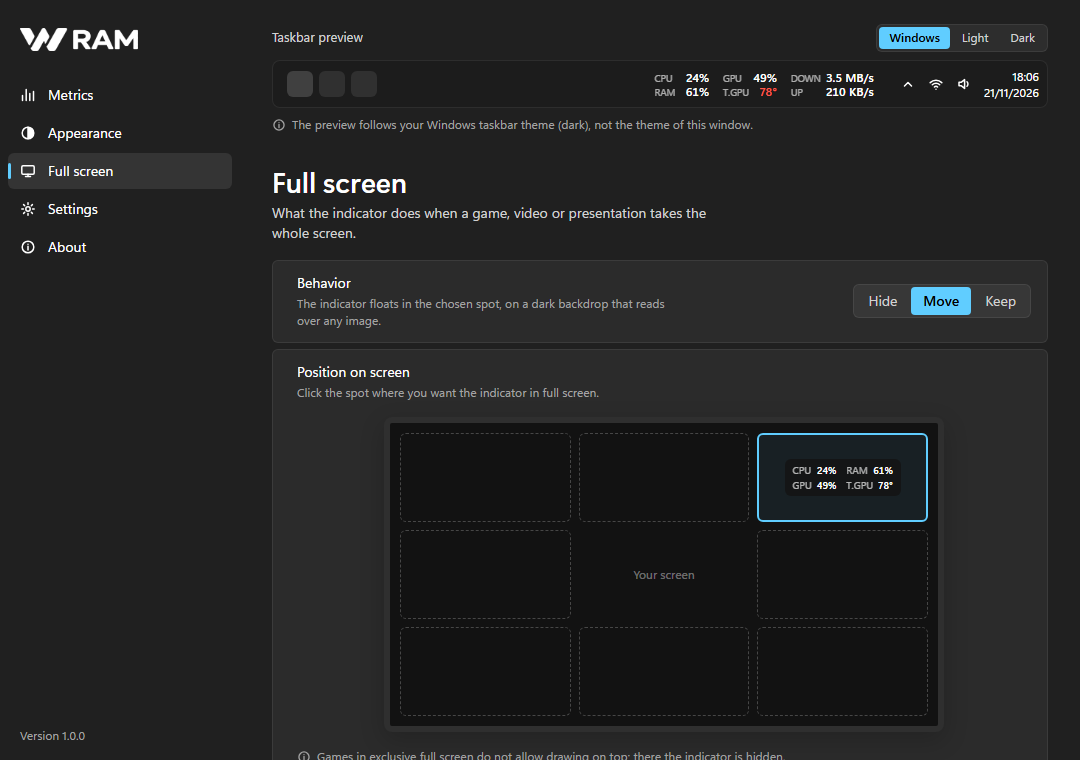
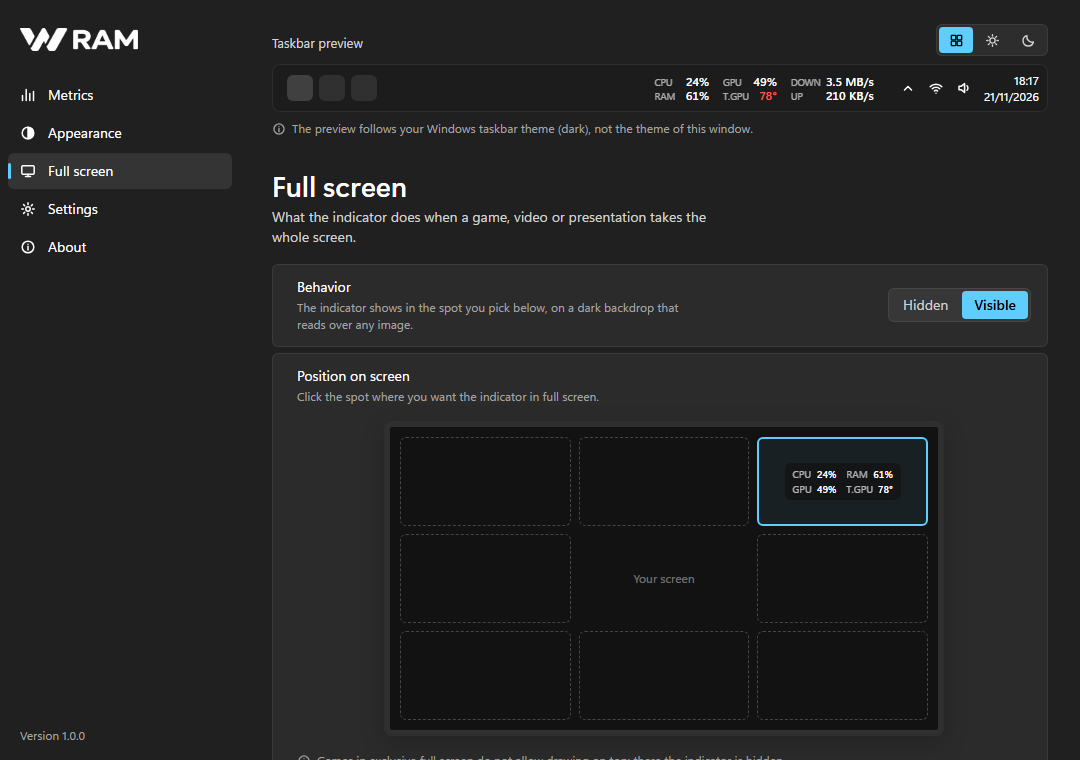
docs(repo): pantalla completa con dos modos, selector de barra con íconos y capturas actualizadas

diff --git a/docs/es/uso.md b/docs/es/uso.md
@@ -13,7 +13,7 @@ La franja se ubica a la izquierda de la bandeja del sistema, en la barra de tare
 
 Los valores usan blanco o negro según el tema de la barra de tareas, y el separador decimal de tu configuración regional. Una métrica sin sensor en el equipo muestra un guion.
 
-La vista previa de la ventana de configuración reproduce la barra con el tema de la barra de tareas de Windows, que puede ser distinto del tema elegido para la ventana. Lo indica la nota debajo de la vista previa. El selector Windows / Clara / Oscura junto a la vista previa muestra la franja sobre una barra clara u oscura para comparar; no cambia ningún ajuste.
+La vista previa de la ventana de configuración reproduce la barra con el tema de la barra de tareas de Windows, que puede ser distinto del tema elegido para la ventana. Lo indica la nota debajo de la vista previa. Los tres botones con ícono junto a la vista previa (Windows, clara y oscura) muestran la franja con el tema de la barra de Windows o sobre una barra clara u oscura para comparar; no cambian ningún ajuste.
 
 ## Ventana de configuración
 
@@ -49,11 +49,10 @@ Qué hace la franja cuando un juego, un video o una presentación ocupa toda la 
 
 | Comportamiento | Resultado |
 |---|---|
-| Ocultar | La franja desaparece y vuelve al salir de pantalla completa |
-| Mover | La franja flota en el recuadro elegido de la pantalla, con un fondo oscuro translúcido |
-| Dejar igual | La franja se queda en su lugar de la barra, encima de la imagen |
+| Oculto | La franja se oculta mientras haya algo en pantalla completa y vuelve al salir |
+| Visible | La franja se muestra en el recuadro que elijas de la pantalla, con un fondo oscuro translúcido |
 
-Con Mover, el monitor de ejemplo tiene 8 recuadros (esquinas, centros de los bordes superior e inferior y centros laterales); se elige con un clic. Los juegos en pantalla completa exclusiva no permiten otras ventanas encima, así que ahí la franja siempre se oculta.
+Con Visible, el monitor de ejemplo tiene 8 recuadros (esquinas, centros de los bordes superior e inferior y centros laterales); se elige con un clic. Los juegos en pantalla completa exclusiva no permiten otras ventanas encima, así que ahí la franja siempre se oculta.
 
 ### Configuración
 
@@ -101,7 +100,7 @@ lang=0
 6=netup||0|0
 ```
 
-`theme`: 0 sistema, 1 claro, 2 oscuro. `lang`: 0 sistema, 1 español, 2 inglés, 3 portugués, 4 francés, 5 chino simplificado, 6 japonés. `fullscreen`: 0 ocultar, 1 mover, 2 dejar igual. `overlayPos`: 0 arriba izquierda, 1 arriba centro, 2 arriba derecha, 3 centro izquierda, 4 centro derecha, 5 abajo izquierda, 6 abajo centro, 7 abajo derecha.
+`theme`: 0 sistema, 1 claro, 2 oscuro. `lang`: 0 sistema, 1 español, 2 inglés, 3 portugués, 4 francés, 5 chino simplificado, 6 japonés. `fullscreen`: 0 oculto, 1 visible. `overlayPos`: 0 arriba izquierda, 1 arriba centro, 2 arriba derecha, 3 centro izquierda, 4 centro derecha, 5 abajo izquierda, 6 abajo centro, 7 abajo derecha.
 
 Cada posición sigue el formato `clave|etiqueta|umbral|aviso`.
 

diff --git a/docs/usage.md b/docs/usage.md
@@ -13,7 +13,7 @@ The strip sits to the left of the system tray, on the main taskbar.
 
 Values are white or black to match the taskbar theme, and use the decimal separator of your regional settings. A metric without a sensor on the PC shows a dash.
 
-The preview at the top of the settings window reproduces the taskbar with the Windows taskbar theme, which can be different from the theme chosen for the window. The note below the preview says which one is in use. The Windows / Light / Dark selector next to the preview shows the strip on a light or dark taskbar for comparison; it does not change any setting.
+The preview at the top of the settings window reproduces the taskbar with the Windows taskbar theme, which can be different from the theme chosen for the window. The note below the preview says which one is in use. The three icon buttons next to the preview (Windows, light and dark) show the strip on the Windows taskbar theme or on a light or dark taskbar for comparison; they do not change any setting.
 
 ## Settings window
 
@@ -49,11 +49,10 @@ What the strip does when a game, video or presentation takes the whole screen. I
 
 | Behavior | Result |
 |---|---|
-| Hide | The strip disappears and comes back when full screen ends |
-| Move | The strip floats in the chosen spot of the screen on a dark translucent backdrop |
-| Keep | The strip stays in its taskbar spot, on top of the image |
+| Hidden | The strip hides while something is full screen and comes back when it ends |
+| Visible | The strip shows in the spot you pick on the screen, on a dark translucent backdrop |
 
-With Move, the screen diagram has 8 spots (corners, edge centers and side centers); click one to choose it. Games in exclusive full screen do not allow other windows on top, so there the strip is always hidden.
+With Visible, the screen diagram has 8 spots (corners, edge centers and side centers); click one to choose it. Games in exclusive full screen do not allow other windows on top, so there the strip is always hidden.
 
 ### Settings
 
@@ -101,7 +100,7 @@ lang=0
 6=netup||0|0
 ```
 
-`theme`: 0 system, 1 light, 2 dark. `lang`: 0 system, 1 Spanish, 2 English, 3 Portuguese, 4 French, 5 Simplified Chinese, 6 Japanese. `fullscreen`: 0 hide, 1 move, 2 keep. `overlayPos`: 0 top left, 1 top center, 2 top right, 3 middle left, 4 middle right, 5 bottom left, 6 bottom center, 7 bottom right.
+`theme`: 0 system, 1 light, 2 dark. `lang`: 0 system, 1 Spanish, 2 English, 3 Portuguese, 4 French, 5 Simplified Chinese, 6 Japanese. `fullscreen`: 0 hidden, 1 visible. `overlayPos`: 0 top left, 1 top center, 2 top right, 3 middle left, 4 middle right, 5 bottom left, 6 bottom center, 7 bottom right.
 
 Each position uses the format `key|label|threshold|alert`.
 

diff --git a/docs/architecture.md b/docs/architecture.md
@@ -67,7 +67,7 @@ The timer is coalescable (`SetCoalescableTimer`), so Windows can batch wake-ups.
 - The background has alpha 1/255: invisible, but it still receives clicks.
 - It reserves the width of the widest value of each unit so the strip does not resize on every reading.
 - It is positioned with `Shell_TrayWnd` and `TrayNotifyWnd`, and follows the scale of the taskbar display (per-monitor DPI v2).
-- Full-screen handling (hide, move to one of 8 screen spots on a translucent backdrop, or keep) is event driven, without waiting for the timer:
+- Full-screen handling (hidden, or visible in one of 8 screen spots on a translucent backdrop) is event driven, without waiting for the timer:
   - `EVENT_SYSTEM_FOREGROUND`: the active window changes.
   - `EVENT_OBJECT_LOCATIONCHANGE` limited to the thread of the active window and re-registered on every focus change: F11 or a video going full screen without a focus change.
   - The active window covers the taskbar monitor and is not a regular maximized window with a title bar. `SHQueryUserNotificationState` covers exclusive Direct3D games and presentations.

diff --git a/docs/es/arquitectura.md b/docs/es/arquitectura.md
@@ -67,7 +67,7 @@ El temporizador es coalescente (`SetCoalescableTimer`), así Windows puede agrup
 - El fondo tiene alfa 1/255: es invisible pero recibe clics.
 - Reserva el ancho del valor más largo de cada unidad para que la franja no cambie de tamaño con cada lectura.
 - Se ubica con `Shell_TrayWnd` y `TrayNotifyWnd`, y sigue la escala de la pantalla de la barra (DPI por monitor v2).
-- Pantalla completa (ocultar, mover a uno de 8 recuadros sobre un fondo translúcido o dejar igual) por eventos, sin esperar al temporizador:
+- Pantalla completa (oculta, o visible en uno de 8 recuadros sobre un fondo translúcido) por eventos, sin esperar al temporizador:
   - `EVENT_SYSTEM_FOREGROUND`: cambio de ventana activa.
   - `EVENT_OBJECT_LOCATIONCHANGE` limitado al hilo de la ventana activa y registrado de nuevo en cada cambio de foco: F11 o un video que pasa a pantalla completa sin cambiar el foco.
   - Una ventana activa cubre el monitor de la barra y no es una ventana maximizada con título. Se suma `SHQueryUserNotificationState` para juegos Direct3D exclusivos y presentaciones.

diff --git a/README.es.md b/README.es.md
@@ -30,7 +30,7 @@ WRAM dibuja una franja de texto a la izquierda de la bandeja del sistema con las
 
 - 14 métricas disponibles, hasta 10 a la vez, en una o dos filas.
 - Umbral de aviso por métrica: el valor cambia de color al cruzarlo.
-- En pantalla completa se oculta, flota en el recuadro de pantalla que elijas o se queda en su sitio, y reacciona en el acto al entrar y al salir.
+- En pantalla completa puede quedar oculta o visible en el recuadro de pantalla que elijas, y reacciona en el acto al entrar y al salir.
 - Interfaz en español, inglés, portugués, francés, chino simplificado y japonés.
 - Sin permisos de administrador, sin drivers y sin runtime: un solo `WRAM.exe`.
 - En reposo usa cerca de 9 MB de memoria y 0,2 % de un núcleo de CPU.

diff --git a/CHANGELOG.md b/CHANGELOG.md
@@ -11,7 +11,7 @@ Format based on [Keep a Changelog](https://keepachangelog.com/en/1.1.0/) and sem
 - Per-metric alert threshold that changes the value color.
 - Settings window with Metrics, Appearance, Settings and About sections, in light, dark or system theme.
 - Interface in Spanish, English, Portuguese, French, Simplified Chinese and Japanese.
-- Full-screen behavior: hide, move to one of 8 screen spots, or keep. Reacts instantly, including F11 and videos.
+- Full-screen behavior: hidden, or visible in one of 8 screen spots. Reacts instantly, including F11 and videos.
 - Taskbar preview with a light or dark taskbar selector.
 - Release builds from CI with a Sigstore build provenance attestation.
 - Startup with Windows without administrator rights.

diff --git a/README.md b/README.md
@@ -30,7 +30,7 @@ WRAM draws a text strip to the left of the system tray with the metrics you choo
 
 - 14 metrics available, up to 10 at a time, in one or two rows.
 - Per-metric alert threshold: the value changes color when it crosses it.
-- In full screen it hides, floats in a spot you pick on the screen, or stays put, and reacts instantly when entering and leaving.
+- In full screen it can stay hidden or visible in a spot you pick on the screen, and reacts instantly when entering and leaving.
 - Interface in Spanish, English, Portuguese, French, Simplified Chinese and Japanese.
 - No administrator rights, no drivers, no runtime: a single `WRAM.exe`.
 - At idle it uses about 9 MB of memory and 0.2% of one CPU core.
